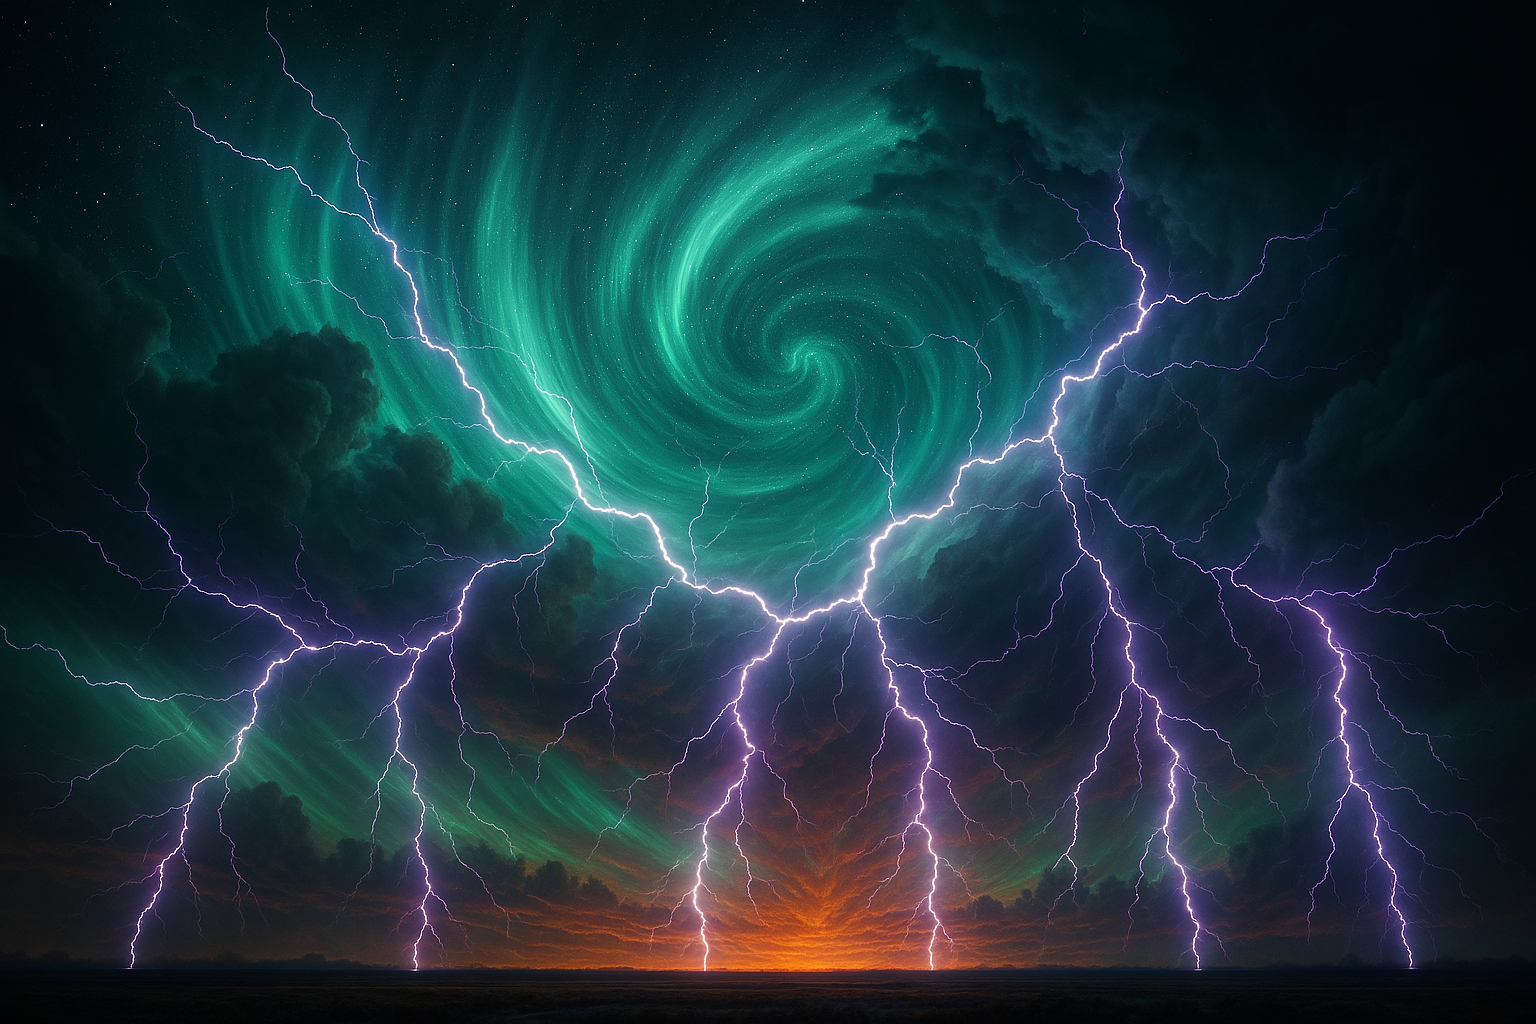
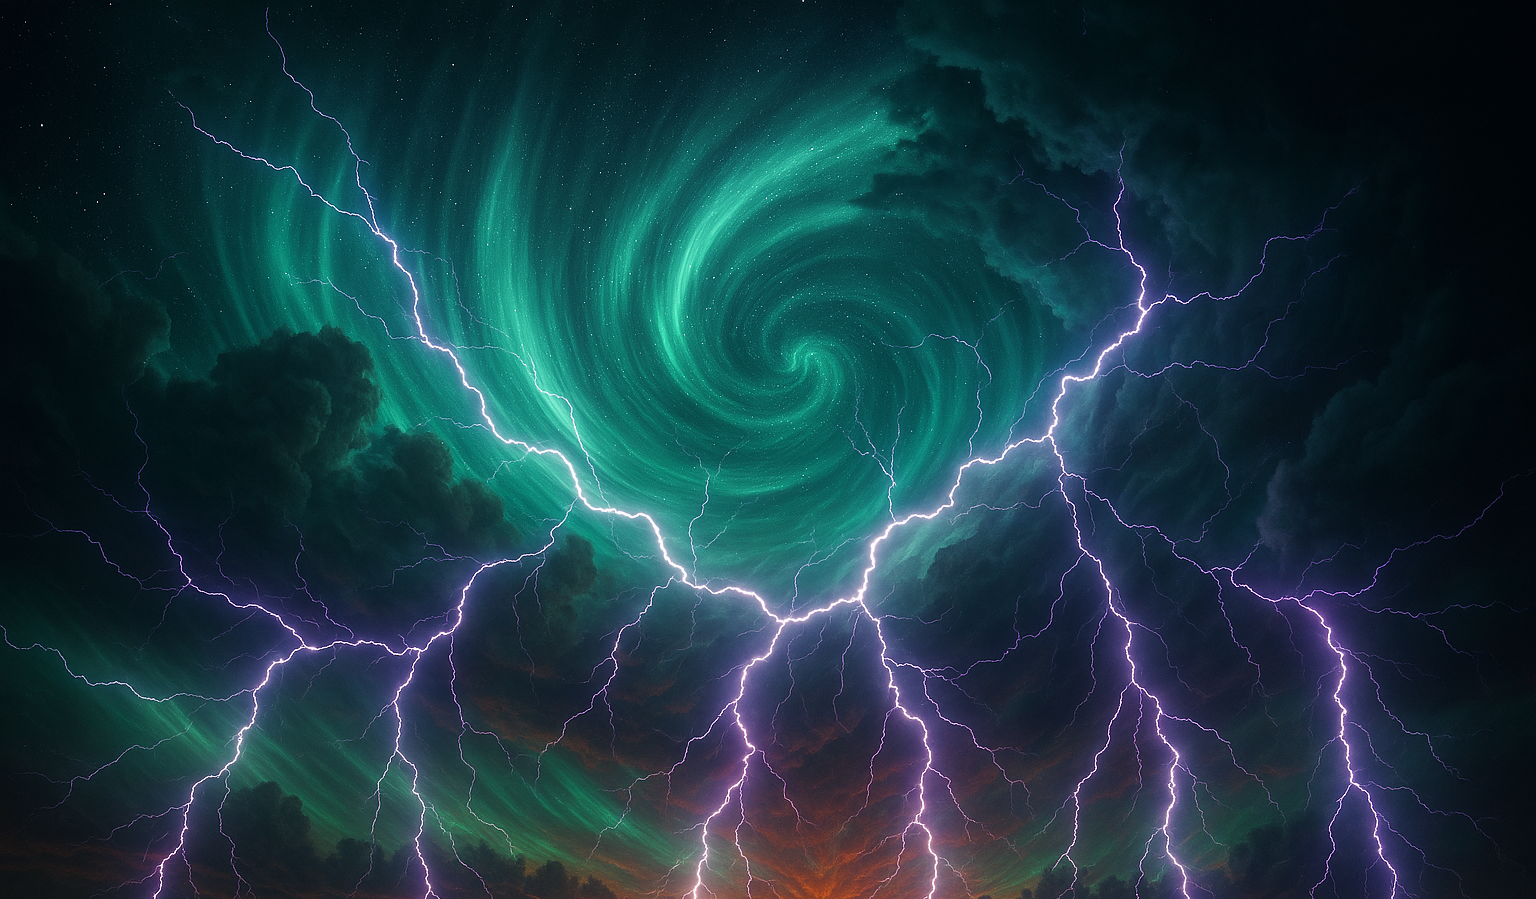
miseAJour
recadrage des images + mise a jour JS et SCSS pour les emplacements des éléments

diff --git a/src/scripts/app.js b/src/scripts/app.js
@@ -114,10 +114,10 @@ sections.forEach(section => {
 const divAnim = document.querySelector(".bloc__animCharge");
 document.addEventListener("DOMContentLoaded", function() {
     document.documentElement.classList.add("pageAnimation");
-    /*document.body.style.overflow = "hidden";*/
+    document.body.style.overflow = "hidden";
 
     document.body.addEventListener("animationend", function() {
-        /*document.body.style.overflow = "auto";*/
+        document.body.style.overflow = "auto";
         divAnim.style.display = "none";
     });
 });

diff --git a/src/styles/app.scss b/src/styles/app.scss
@@ -491,7 +491,7 @@ ul {
         opacity: 1;
         position: absolute;
         z-index: 20;
-        bottom: 6%;
+        bottom: 18%;
         left: 50%;
         transform: translateX(-50%);
         display: flex;
@@ -626,6 +626,9 @@ ul {
     margin: 23px 0 0 23px;
     justify-self: end;
     margin-right: 20%;
+    background-color: rgb(255 255 255 / 35%);
+    padding: 0 23px;
+    border-radius: 5px;
 }
 
     /*Page test*/
